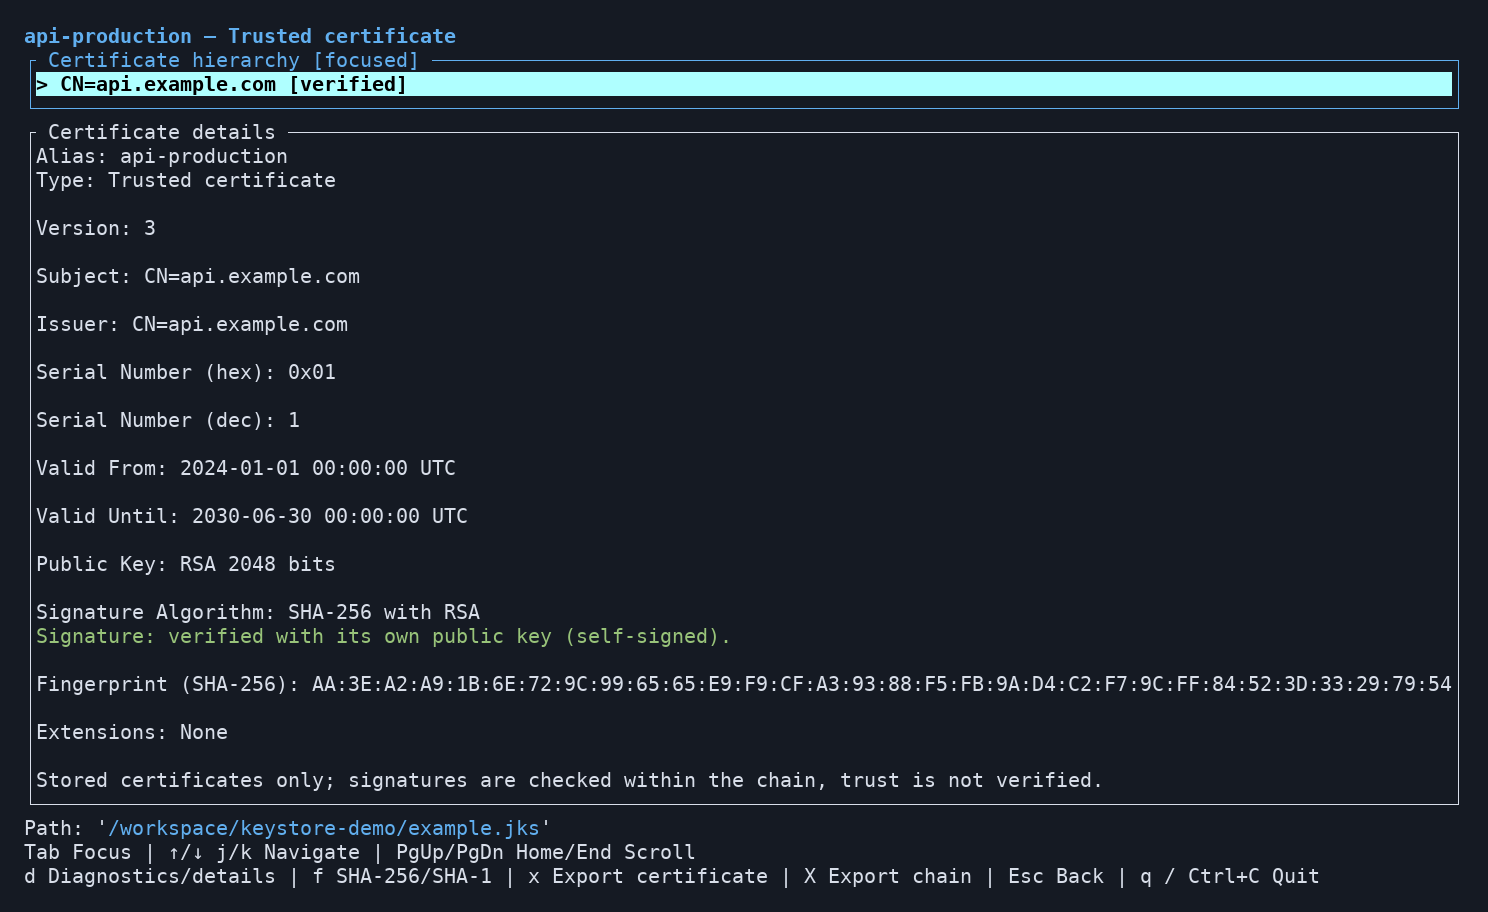
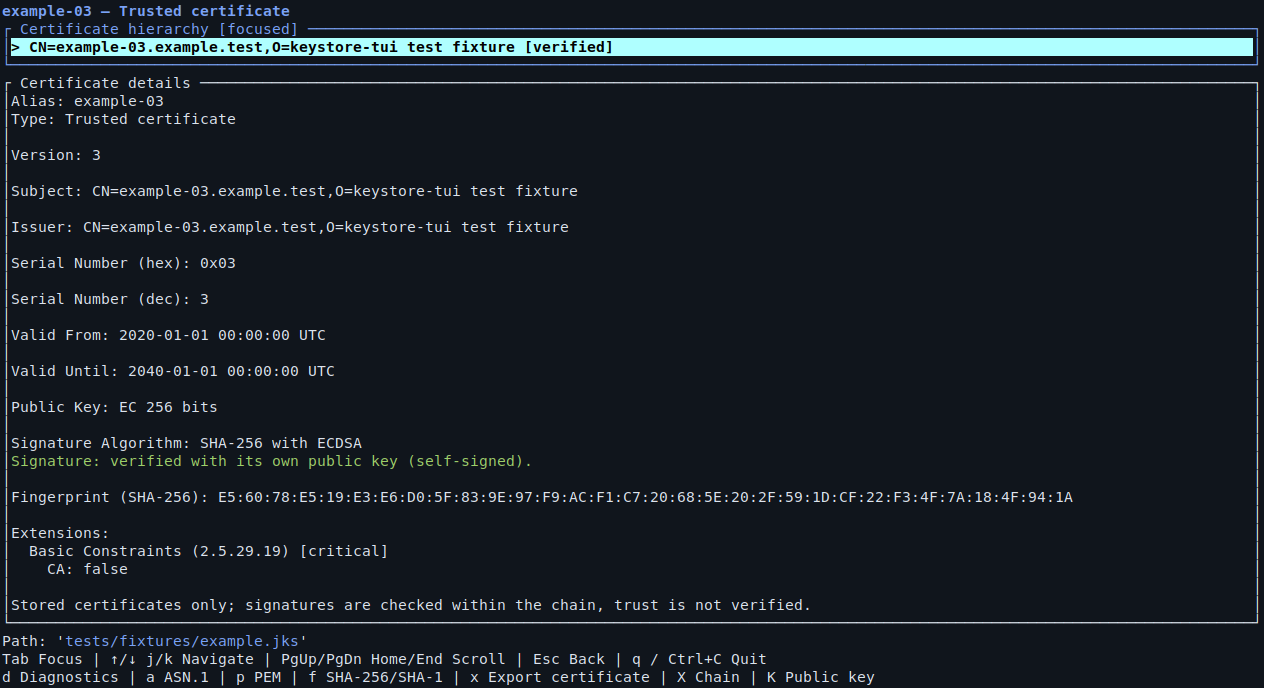
Refresh README screenshots and simplify the user guide (#132)
Refresh the three existing screenshots and simplify the overview, usage, and limitations.

Changed region(s): [[0.0, 0.0, 1.0, 1.0], [0.7714, 0.9462, 0.8948, 0.9767]]

diff --git a/README.md b/README.md
@@ -8,54 +8,32 @@
 [![crates.io](https://img.shields.io/crates/v/keystore-tui.svg)](https://crates.io/crates/keystore-tui)
 [![License](https://img.shields.io/crates/l/keystore-tui.svg)](LICENSE)
 
-A terminal app for inspecting keystores, certificates, and certificate signing requests.
+A terminal app for managing keystores, keys, and certificates.
 
-![Main screen showing five keystore entries, including one expired certificate](docs/main-screen.png)
+<p align="center">
+  <a href="docs/main-screen.png"><img src="docs/main-screen.png" alt="Entry list with expiry highlighting and keystore and key management shortcuts" width="32%"></a>
+  <a href="docs/entry-details.png"><img src="docs/entry-details.png" alt="Certificate details with verified signature, fingerprint, and export shortcuts" width="32%"></a>
+  <a href="docs/chain-diagnostics.png"><img src="docs/chain-diagnostics.png" alt="Offline chain diagnostics with validity and signature checks, and explicit trust and revocation limitations" width="32%"></a>
+</p>
 
-![Details of the selected api-production entry, showing certificate fields and its verified signature](docs/entry-details.png)
+<p align="center"><sub>Entry list · Certificate details · Chain diagnostics — click an image for full size.</sub></p>
 
-![Offline chain diagnostics for the openssl-cert.p12 fixture, showing validity and signature checks with trust and revocation unchecked](docs/chain-diagnostics.png)
+Open your keystore and see what’s inside. Inspect certificates, manage keys,
+and make changes from your terminal—without Java or `keytool`.
 
-Open a JKS, JCEKS, or PKCS12
-(`.jks`, `.jceks`, `.p12`, `.pfx`) file, enter its password, and browse its
-entries and certificates. It also
-opens standalone certificate files (`.pem`, `.crt`, `.cer`, `.der`, `.p7b`,
-`.p7c`), certificate signing requests (`.csr`, `.p10`), and certificate
-revocation lists (`.crl`).
+- **Find what needs attention.** Browse and filter entries, spot expired
+  certificates, and flag weak cryptography.
+- **Understand your certificates.** Explore certificate details and chains,
+  check signatures, and inspect certificate requests and revocation lists.
+- **Manage keys and certificates.** Create keys, request and sign certificates,
+  import and export entries, and update passwords.
+- **Save with confidence.** Changes stay in memory until you save. Convert
+  between keystore formats while keeping your keys and certificates together.
 
-- Lists every entry with its type (private key, trusted certificate, or secret
-  key), public key algorithm, key size, and expiry date. Certificates expiring
-  within 30 days are shown in yellow and expired ones in red.
-- Flags weak cryptography: RSA and DSA keys under 2048 bits, EC keys under 256
-  bits, and MD2, MD5, or SHA-1 signatures.
-- Filters entries by alias or subject, and sorts them by alias or expiry date.
-- Shows each certificate's full details, including decoded extensions, and its
-  certificate hierarchy, with each signature checked against the issuer's key.
-- Diagnoses stored certificate chains offline: validity, issuer names and key
-  identifiers, CA status, signing key usage, and path-length constraints.
-- Shows a certificate signing request's subject, public key, requested
-  extensions, and attributes, and checks its signature with its own key.
-- Shows the raw ASN.1 structure and PEM encoding of a certificate or request.
-- Exports a certificate, a whole chain, a public key, or a request to a new
-  PEM or DER file.
-- Detects the format from the file content, so a PKCS12 store renamed `.jks`
-  still opens.
-- Opens PKCS12 files made by Java, OpenSSL, and other tools. Keys without a
-  name are listed under their certificate's common name, and certificates that
-  belong to no key are listed as `Certificate` entries.
-- Creates and edits JKS, JCEKS, and PKCS12 keystores: generate an RSA, EC, or
-  Ed25519 key pair with a self-signed certificate, make a certificate request
-  for a private key and import the CA's reply, sign a certificate request, a new
-  key pair, or a revocation list with a private key, edit a certificate chain, import a trusted certificate
-  or a key pair (PEM or PKCS #8), copy entries from another keystore, export
-  a private key with or
-  without its certificates, generate, import, or export an AES or HMAC secret key, rename or delete an entry, or change the keystore password or a key's
-  password.
-- Converts a keystore between JKS, JCEKS, and PKCS12, private keys included. Nothing changes on disk until you save, and saving
-  replaces the file in one step.
-- Safe and self-contained: it never displays private or secret keys, writes
-  one unencrypted only after you confirm it, and
-  does not need Java or `keytool`.
+Supports JKS, JCEKS, and PKCS12 keystores, plus standalone certificates,
+certificate requests, and revocation lists. See the
+[usage reference](docs/REFERENCE.md) for supported formats and all available
+actions.
 
 ## Install
 
@@ -70,48 +48,32 @@ building from source, and download verification.
 
 ## Usage
 
-Start with a keystore, certificate, or certificate request:
+Start the app without parameters:
+
+```sh
+keystore-tui
+```
+
+From there, open an existing file or create a new keystore.
+
+You can also open a keystore directly by passing its path:
 
 ```sh
 keystore-tui "path/to/store.jks"
-keystore-tui "path/to/certificate.pem"
 ```
 
-Enter the keystore password when prompted. You can also run `keystore-tui`
-without a path and press `o` to browse for a file.
-
-Use the arrow keys to select an entry and `Enter` to inspect it. Press `Esc`
-to return to the list, or `q` to quit. `keystore-tui --help` shows command-line
-usage.
-
-See the [usage reference](docs/REFERENCE.md) for all key bindings, filtering,
-certificate details, chain diagnostics, ASN.1 and PEM views, and exports.
+See the [usage reference](docs/REFERENCE.md) for the complete guide.
 
 ## Limitations
 
-- Editing covers the [release 1.1 roadmap](docs/ROADMAP.md#release-11):
-  creating, saving, and converting JKS, JCEKS, and PKCS12 keystores; deleting,
-  renaming, importing, and copying entries; generating key pairs, certificate
-  requests, and secret keys; signing certificates and revocation lists;
-  importing CA replies and editing chains; exporting private, public, and
-  secret keys; and changing passwords. The roadmap lists what is planned for
-  release 1.2.
-- PKCS12 keystores are saved with AES-256 and HMAC-SHA256, which Java 8 builds
-  before 8u301 cannot read.
-- Private and secret keys are never shown. They are decrypted only in
-  memory, to sign, to export, or to protect them again.
-- Clipboard actions are not available yet.
-- PKCS12 integrity checks do not support PBMAC1 MACs.
-- Files larger than 64 MiB are refused.
+- Certificate checks run offline. They don’t establish whether a certificate
+  is trusted or has been revoked.
+- Saved PKCS12 files may not work with older Java versions.
+- Some PKCS12 protection formats, including PBMAC1, aren’t supported.
+- Built-in clipboard actions aren’t available.
+- Files larger than 64 MiB can’t be opened.
 
-## More documentation
-
-- [`docs/REFERENCE.md`](docs/REFERENCE.md): usage and key bindings.
-- [`docs/SPEC.md`](docs/SPEC.md): the detailed behaviour specification.
-- [`docs/ROADMAP.md`](docs/ROADMAP.md): planned features.
-- [`AGENTS.md`](AGENTS.md): development checks, conventions, and shipping workflow.
-- [`docs/ARCHITECTURE.md`](docs/ARCHITECTURE.md): module responsibilities and dependencies.
-- [`docs/RELEASING.md`](docs/RELEASING.md): version bumps and release procedures.
+See the [roadmap](docs/ROADMAP.md) for planned features.
 
 ## License
 

diff --git a/CHANGELOG.md b/CHANGELOG.md
@@ -5,6 +5,9 @@ All notable changes to keystore-tui are listed here. Versions follow
 
 ## Unreleased
 
+- Refresh the README screenshots for the current app and show them in a compact
+  row with links to the full-size images.
+
 - Entry details reuse fingerprints and formatted details, ASN.1, and PEM while
   inspecting an entry, reducing repeated work on idle redraws.
 - PKCS12 entry listing reuses parsed certificate metadata when building chains.
